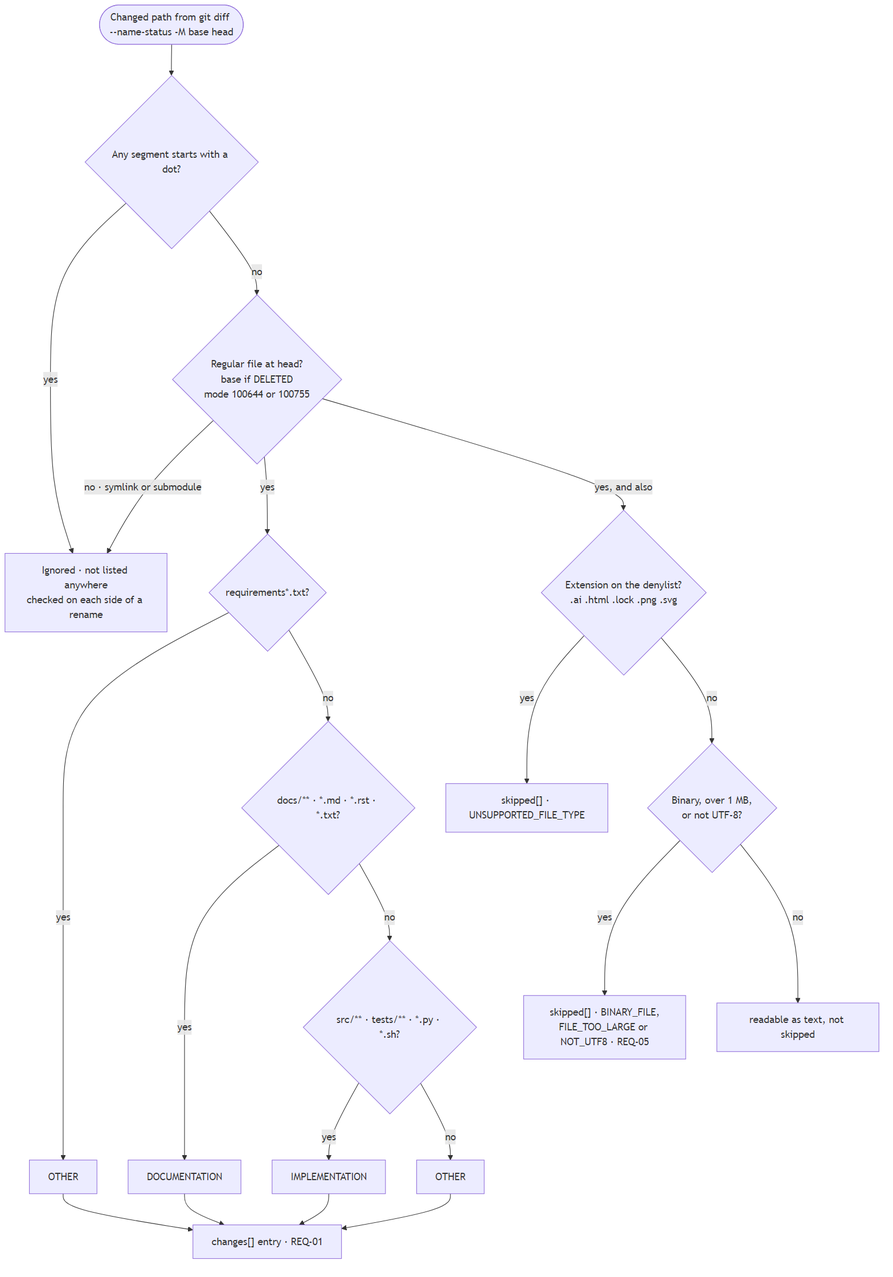
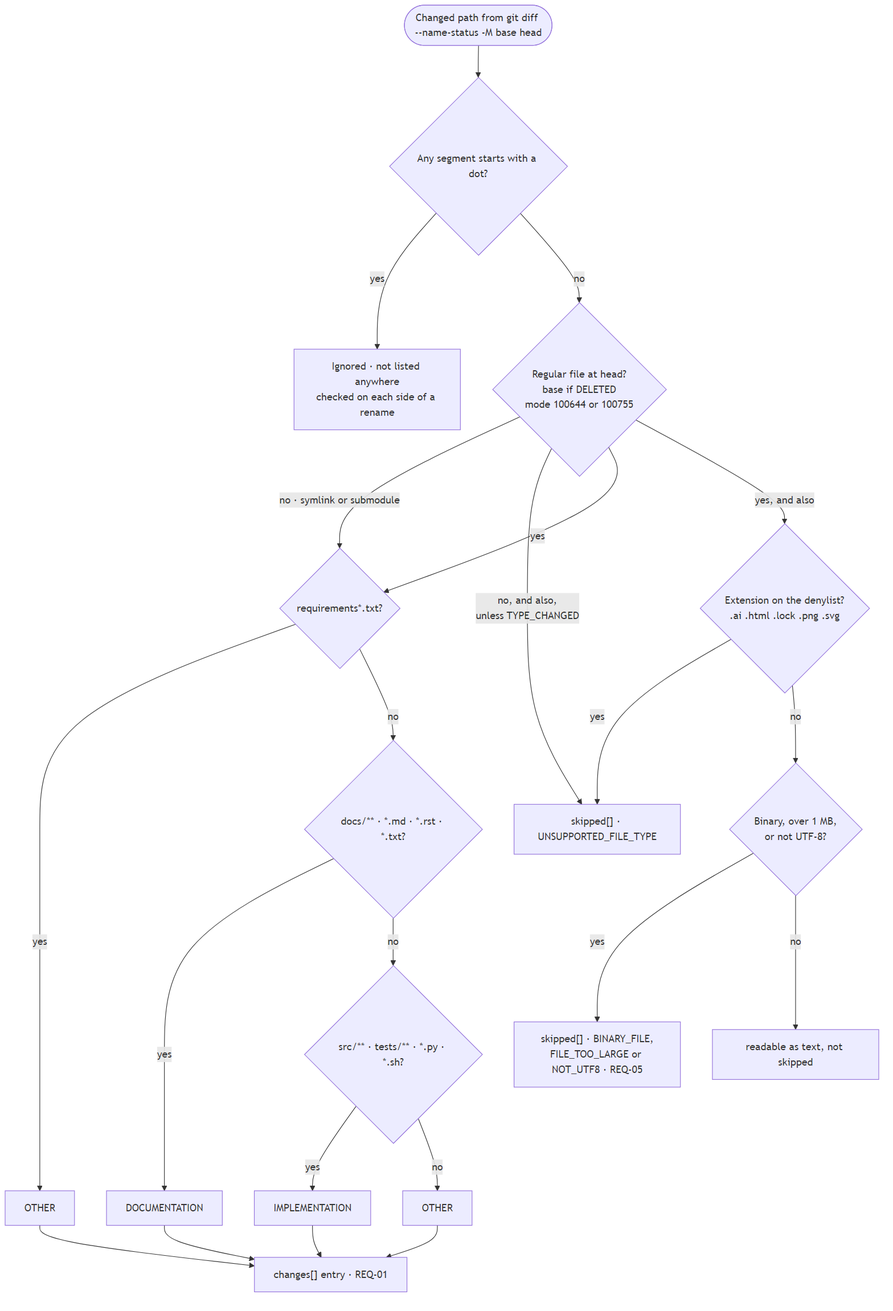
List symlinks and submodules in changes[] and skip them (ticket 17)
Match the reference service: a symlink or submodule outside hidden
paths is listed with its path-rule category and skipped as
UNSUPPORTED_FILE_TYPE, judged by git's mode. A switch to or from a
regular file is one TYPE_CHANGED change and isn't skipped. tree()
still lists regular files only. Drop LINK_PATHS from the conformance
comparison and update the test repo's expected answers, M3, the
roadmap and spec story 25.

diff --git a/Source/GitHub_Connector/fetch.py b/Source/GitHub_Connector/fetch.py
@@ -27,8 +27,11 @@ _STATUS = {
     "T": ChangeType.TYPE_CHANGED,
 }
 
-# keeps plain and executable files, drops symlinks (120000) and submodules (160000)
+# keeps plain and executable files, the only ones read as text
 REGULAR = {"100644", "100755"}
+
+# lists symlinks and submodules in changes[] and skips them unread, as the reference does (decision T12-Q10)
+LINKS = {"120000", "160000"}
 
 # names each skip reason as a code, in the reference service's style (decision T12-Q2)
 SKIP_UNSUPPORTED = "UNSUPPORTED_FILE_TYPE"
@@ -44,6 +47,7 @@ class FileChange:
     change_type: ChangeType
     old_path: str | None = None
     blob: str = ""  # holds the blob checked, base side for a deletion
+    link: bool = False  # marks a symlink or submodule on the side checked, never read
 
 
 @dataclass(frozen=True)
@@ -265,7 +269,17 @@ def _first_parent(git: _Git, head: str) -> str | None:
 
 def kept(path: str, mode: str) -> bool:
     # admits a regular file with no hidden segment, everything else is an ignored path
-    return mode in REGULAR and not any(part.startswith(".") for part in path.split("/"))
+    return mode in REGULAR and not _hidden(path)
+
+
+def listed(path: str, mode: str) -> bool:
+    # admits a changed path for changes[], a kept file or a symlink or submodule with no hidden segment
+    return (mode in REGULAR or mode in LINKS) and not _hidden(path)
+
+
+def _hidden(path: str) -> bool:
+    # tells a hidden path, any segment starting with a dot
+    return any(part.startswith(".") for part in path.split("/"))
 
 
 def _diff(git: _Git, old: str, head: str) -> list[FileChange]:
@@ -282,29 +296,38 @@ def _diff(git: _Git, old: str, head: str) -> list[FileChange]:
             old_path, new_path = fields[i + 1], fields[i + 2]
             i += 3
             # checks each side on its own, so an ignored path never shows, not even as old_path
-            old_ok, new_ok = kept(old_path, old_mode), kept(new_path, new_mode)
+            old_ok, new_ok = listed(old_path, old_mode), listed(new_path, new_mode)
             if old_ok and new_ok:
-                changes.append(FileChange(new_path, ChangeType.RENAMED, old_path, new_blob))
+                changes.append(FileChange(new_path, ChangeType.RENAMED, old_path, new_blob, new_mode in LINKS))
             elif new_ok:
-                changes.append(FileChange(new_path, ChangeType.ADDED, blob=new_blob))
+                changes.append(FileChange(new_path, ChangeType.ADDED, blob=new_blob, link=new_mode in LINKS))
             elif old_ok:
-                changes.append(FileChange(old_path, ChangeType.DELETED, blob=old_blob))
+                changes.append(FileChange(old_path, ChangeType.DELETED, blob=old_blob, link=old_mode in LINKS))
             continue
         path = fields[i + 1]
         i += 2
         # judges the head side, or the base side for a deletion
         if letter == "D":
-            if kept(path, old_mode):
-                changes.append(FileChange(path, ChangeType.DELETED, blob=old_blob))
-        elif kept(path, new_mode):
-            changes.append(FileChange(path, _STATUS[letter], blob=new_blob))
+            if listed(path, old_mode):
+                changes.append(FileChange(path, ChangeType.DELETED, blob=old_blob, link=old_mode in LINKS))
+        elif listed(path, new_mode):
+            changes.append(FileChange(path, _STATUS[letter], blob=new_blob, link=new_mode in LINKS))
     return changes
 
 
 def _skipped(git: _Git, old: str, head: str, changes: list[FileChange]) -> list[SkippedFile]:
     # lists the changes that can't be read as text, file type first, then binary, size and UTF-8
-    skipped = [SkippedFile(c.path, SKIP_UNSUPPORTED) for c in changes if rules.is_unsupported(c.path)]
-    rest = [c for c in changes if not rules.is_unsupported(c.path)]
+    skipped: list[SkippedFile] = []
+    rest: list[FileChange] = []
+    for c in changes:
+        if c.link:
+            # skips a symlink or submodule unread, but a switch to or from one isn't skipped
+            if c.change_type != ChangeType.TYPE_CHANGED:
+                skipped.append(SkippedFile(c.path, SKIP_UNSUPPORTED))
+        elif rules.is_unsupported(c.path):
+            skipped.append(SkippedFile(c.path, SKIP_UNSUPPORTED))
+        else:
+            rest.append(c)
     if not rest:
         return skipped
     binary = _numstat_binaries(git, old, head)

diff --git a/tests/test_v1_changes.py b/tests/test_v1_changes.py
@@ -33,6 +33,11 @@ def listing(body):
     return [(c["path"], c["change_type"], c["old_path"]) for c in body["changes"]]
 
 
+def skipped(body):
+    # reduces skipped[] to (path, reason) pairs
+    return [(s["path"], s["reason"]) for s in body["skipped"]]
+
+
 TEXT = "".join(f"line {i}: the quick brown fox jumps over the lazy dog\n" for i in range(40))
 
 
@@ -102,18 +107,40 @@ def test_hidden_paths_are_ignored(api, make_repo):
 
 
 @pytest.mark.skipif(not SYMLINKS, reason="needs symlink support")
-def test_symlink_is_not_listed(api, make_repo):
+def test_symlink_is_listed_and_skipped(api, make_repo):
     repo = make_repo()
     repo.commit({"target.txt": "t\n"})
     head = repo.commit({"real.txt": "r\n"}, symlinks={"link.txt": "target.txt"})
-    assert listing(analyse(api, head)) == [("real.txt", "ADDED", None)]
+    body = analyse(api, head)
+    assert listing(body) == [("link.txt", "ADDED", None), ("real.txt", "ADDED", None)]
+    assert skipped(body) == [("link.txt", "UNSUPPORTED_FILE_TYPE")]
 
 
-def test_submodule_is_not_listed(api, make_repo):
+def test_submodule_is_listed_and_skipped(api, make_repo):
     repo = make_repo()
     repo.commit({"seed": "0\n"})
     head = repo.commit({"real.txt": "r\n"}, gitlinks={"vendor/lib": "1" * 40})
-    assert listing(analyse(api, head)) == [("real.txt", "ADDED", None)]
+    body = analyse(api, head)
+    assert listing(body) == [("real.txt", "ADDED", None), ("vendor/lib", "ADDED", None)]
+    assert skipped(body) == [("vendor/lib", "UNSUPPORTED_FILE_TYPE")]
+
+
+def test_submodule_bump_is_modified_and_skipped(api, make_repo):
+    repo = make_repo()
+    repo.commit({"seed": "0\n"}, gitlinks={"vendor/lib": "1" * 40})
+    head = repo.commit({}, gitlinks={"vendor/lib": "2" * 40})
+    body = analyse(api, head)
+    assert listing(body) == [("vendor/lib", "MODIFIED", None)]
+    assert skipped(body) == [("vendor/lib", "UNSUPPORTED_FILE_TYPE")]
+
+
+def test_hidden_submodule_stays_ignored(api, make_repo):
+    repo = make_repo()
+    repo.commit({"seed": "0\n"})
+    head = repo.commit({"real.txt": "r\n"}, gitlinks={".vendor/lib": "1" * 40})
+    body = analyse(api, head)
+    assert listing(body) == [("real.txt", "ADDED", None)]
+    assert skipped(body) == []
 
 
 def test_executable_file_is_kept(api, make_repo):
@@ -138,11 +165,28 @@ def test_rename_into_a_hidden_folder_is_deleted(api, make_repo):
 
 
 @pytest.mark.skipif(not SYMLINKS, reason="needs symlink support")
-def test_switch_between_file_and_symlink_never_lists_the_link_side(api, make_repo):
+def test_switch_between_file_and_symlink_is_type_changed_both_ways(api, make_repo):
     repo = make_repo()
     repo.commit({"target.txt": "t\n", "flip.txt": "regular\n"})
     to_link = repo.commit({}, symlinks={"flip.txt": "target.txt"})
     back = repo.commit({"flip.txt": "regular again\n"})
-    # lists nothing for file-to-link, only the regular file for link-to-file
-    assert listing(analyse(api, to_link)) == []
-    assert [c["path"] for c in analyse(api, back)["changes"]] == ["flip.txt"]
+    # lists one TYPE_CHANGED change either way, and skips neither
+    for head in (to_link, back):
+        body = analyse(api, head)
+        assert listing(body) == [("flip.txt", "TYPE_CHANGED", None)]
+        assert skipped(body) == []
+
+
+def test_switch_between_file_and_submodule_is_type_changed_both_ways(api, make_repo):
+    repo = make_repo()
+    repo.commit({"vendor/lib": "regular\n"})
+    repo.run("rm", "--quiet", "--cached", "vendor/lib")
+    (repo.work / "vendor/lib").unlink()
+    to_module = repo.commit({}, gitlinks={"vendor/lib": "1" * 40})
+    repo.run("rm", "--quiet", "--cached", "vendor/lib")
+    back = repo.commit({"vendor/lib": "regular again\n"})
+    # lists one TYPE_CHANGED change either way, and skips neither
+    for head in (to_module, back):
+        body = analyse(api, head)
+        assert listing(body) == [("vendor/lib", "TYPE_CHANGED", None)]
+        assert skipped(body) == []

diff --git a/tools/testrepo.py b/tools/testrepo.py
@@ -109,13 +109,16 @@ EXPECTED = {
         change("docs/old.md", "DELETED", "DOCUMENTATION"),
     ], []),
     "symlink": ("symlink", None, [
+        change("link-to-readme", "ADDED", "OTHER"),
         change("notes.txt", "ADDED", "DOCUMENTATION"),
         change("switchy.txt", "ADDED", "DOCUMENTATION"),
-    ], []),
-    "file-to-symlink": ("file-to-symlink", None, [], []),
-    # follows M3 until ticket 12 probes the reference service
+    ], [skip("link-to-readme", UNSUPPORTED)]),
+    "file-to-symlink": ("file-to-symlink", None, [change("switchy.txt", "TYPE_CHANGED", "DOCUMENTATION")], []),
     "symlink-to-file": ("symlink-to-file", None, [change("switchy.txt", "TYPE_CHANGED", "DOCUMENTATION")], []),
-    "submodule": ("submodule", None, [change("vendor/README.md", "ADDED", "DOCUMENTATION")], []),
+    "submodule": ("submodule", None, [
+        change("vendor/README.md", "ADDED", "DOCUMENTATION"),
+        change("vendor/lib", "ADDED", "OTHER"),
+    ], [skip("vendor/lib", UNSUPPORTED)]),
     "binary": ("binary", None, [change("assets/logo.png", "ADDED", "OTHER")], [skip("assets/logo.png", UNSUPPORTED)]),
     "oversize": ("oversize", None, [change("data/big.csv", "ADDED", "OTHER")], [skip("data/big.csv", TOO_LARGE)]),
     "non-utf8": ("non-utf8", None, [change("docs/latin1.txt", "ADDED", "DOCUMENTATION")], [skip("docs/latin1.txt", NOT_UTF8)]),
@@ -134,13 +137,17 @@ EXPECTED = {
         change("docs/guide.md", "ADDED", "DOCUMENTATION"),
         change("lib/shown.py", "RENAMED", "IMPLEMENTATION", "lib/visible.py"),
         change("misc/latin.txt", "ADDED", "DOCUMENTATION"),
+        change("mixlink", "ADDED", "OTHER"),
         change("requirements-dev.txt", "DELETED", "OTHER"),
         change("run.sh", "ADDED", "IMPLEMENTATION"),
         change("src/app.py", "MODIFIED", "IMPLEMENTATION"),
+        change("vendor/other", "ADDED", "OTHER"),
     ], [
         skip("assets/icon.png", UNSUPPORTED),
         skip("data/huge.txt", TOO_LARGE),
         skip("misc/latin.txt", NOT_UTF8),
+        skip("mixlink", UNSUPPORTED),
+        skip("vendor/other", UNSUPPORTED),
     ]),
     "deleted": ("deleted", None, [change("docs/guide.md", "DELETED", "DOCUMENTATION")], []),
     "base-equals-head": ("docs-category", "docs-category", [], []),

diff --git a/tests/reference.py b/tests/reference.py
@@ -6,7 +6,6 @@ import json
 import os
 import sys
 import time
-from collections.abc import Container
 from pathlib import Path
 from typing import Any
 
@@ -65,14 +64,6 @@ def normalise(body: Any) -> Any:
     return body
 
 
-# names the symlinks and submodules we still ignore, which theirs lists, per label until ticket 17 (decision T12-Q10)
-LINK_PATHS = {
-    "label-symlink": {"link-to-readme"},
-    "label-file-to-symlink": {"switchy.txt"},
-    "label-submodule": {"vendor/lib"},
-    "label-mixed": {"mixlink", "vendor/other"},
-}
-
 # names the skip reasons only our safety net gives, theirs skips by file type alone (decision T12-Q2)
 OUR_EXTRA_SKIP_REASONS = {"BINARY_FILE", "FILE_TOO_LARGE", "NOT_UTF8"}
 
@@ -96,13 +87,13 @@ def _without_hidden(change: dict) -> dict | None:
     return change
 
 
-def comparable(ours: Any, theirs: Any, ignored_paths: Container[str] = ()) -> tuple[Any, Any]:
-    # removes the known differences by choice: our extra skip reasons, their hidden paths and their ignored_paths
+def comparable(ours: Any, theirs: Any) -> tuple[Any, Any]:
+    # removes the known differences by choice: our extra skip reasons and their hidden paths
     if not (isinstance(ours, dict) and isinstance(theirs, dict) and "changes" in theirs):
         return ours, theirs
     ours = {**ours, "skipped": [s for s in ours.get("skipped", []) if s["reason"] not in OUR_EXTRA_SKIP_REASONS]}
-    changes = [c for c in map(_without_hidden, theirs["changes"]) if c is not None and c["path"] not in ignored_paths]
-    skipped = [s for s in theirs.get("skipped", []) if not _hidden(s["path"]) and s["path"] not in ignored_paths]
+    changes = [c for c in map(_without_hidden, theirs["changes"]) if c is not None]
+    skipped = [s for s in theirs.get("skipped", []) if not _hidden(s["path"])]
     return ours, {**theirs, "changes": sorted(changes, key=lambda c: c["path"]), "skipped": skipped}
 
 

diff --git a/tests/test_v1_network.py b/tests/test_v1_network.py
@@ -156,8 +156,7 @@ def test_conformance(case, target, github_env, live_reference, request):
     ours = target.request(method, "/system" + path, json=body)
     their = theirs(method, path, body)
     assert ours.status_code == their.status_code, f"{case}: status ours {ours.status_code}, theirs {their.status_code}"
-    ignored = reference.LINK_PATHS.get(case, ())
-    found = reference.differences(*reference.comparable(reference.normalise(ours.json()), reference.normalise(their.json()), ignored))
+    found = reference.differences(*reference.comparable(reference.normalise(ours.json()), reference.normalise(their.json())))
     allowed = reference.KNOWN_CASE_DIFFERENCES.get(case, ("",))[0]
     found = [f for f in found if not (allowed and f.startswith(allowed + ":"))]
     assert found == [], f"{case}: " + " | ".join(found)
@@ -217,16 +216,3 @@ def test_known_differences_by_choice_are_removed_before_comparing():
     assert reference.differences(*reference.comparable(ours, wrong)) == [
         "body.changes[3].change_type: ours 'ADDED', theirs 'MODIFIED'"
     ]
-
-
-def test_link_paths_waiting_for_ticket_17_are_removed_from_theirs_only():
-    ours = {"changes": [{"path": "notes.txt", "old_path": None, "change_type": "ADDED", "category": "DOCUMENTATION"}], "skipped": []}
-    theirs = {
-        "changes": [
-            {"path": "link-to-readme", "old_path": None, "change_type": "ADDED", "category": "OTHER"},
-            {"path": "notes.txt", "old_path": None, "change_type": "ADDED", "category": "OTHER"},
-        ],
-        "skipped": [{"path": "link-to-readme", "reason": "UNSUPPORTED_FILE_TYPE"}],
-    }
-    assert reference.differences(*reference.comparable(ours, theirs)) != []
-    assert reference.differences(*reference.comparable(ours, theirs, ignored_paths={"link-to-readme"})) == []

diff --git a/tests/test_v1_testrepo.py b/tests/test_v1_testrepo.py
@@ -75,10 +75,10 @@ def test_mixed_commit_reports_every_path_not_ignored(local_api, built):
     reported = {c["path"] for c in body["changes"]} | {c["old_path"] for c in body["changes"] if c["old_path"]}
     skipped = {s["path"] for s in body["skipped"]}
     assert skipped <= reported, "every skipped file is also a change"
-    for path, meta in touched.items():
-        old_mode, new_mode = meta[1:].split(" ")[:2]
-        ignored = any(p.startswith(".") for p in path.split("/")) or {old_mode, new_mode} & {"120000", "160000"}
-        assert bool(ignored) != (path in reported), f"{path}: ignored={bool(ignored)}, reported={path in reported}"
+    for path in touched:
+        # ignores hidden paths only, symlinks and submodules are reported too (ticket 17)
+        ignored = any(p.startswith(".") for p in path.split("/"))
+        assert ignored != (path in reported), f"{path}: ignored={ignored}, reported={path in reported}"
     assert ".assets/secret.png" in touched and ".assets/secret.png" not in reported | skipped
 
 

diff --git a/docs/plan/roadmap.md b/docs/plan/roadmap.md
@@ -103,7 +103,7 @@ The LLM gets every DOCUMENTATION file at head, up to a 200 KB total (a config va
 | 2 | Validate the request before touching the network: `repository` matches `^[A-Za-z0-9-]+/[A-Za-z0-9._-]+$`, `commit_id` is required and 7–40 hex, and `base_commit` follows the same rule when given. | 1 | Missing `commit_id` → 400 `INVALID_REQUEST` with "commit_id is required" (AC-07). `not-a-repo` → 400 `INVALID_REQUEST`, and no run is saved. |
 | 3 | Connect anonymously: `GIT_TERMINAL_PROMPT=0` and `git -c credential.helper= clone --filter=blob:none --no-checkout --quiet` into a fresh temporary directory. Every git call has a 60 s timeout, and the whole analysis has a 120 s deadline; both map to `TIMEOUT`. At most K = 2 analyses run at once (a semaphore around `analyze()`), and extra requests wait. All three values live in config. The connector is used as `with fetch(repo, head, base) as cmp:`, and the clone is deleted when the block exits, so the v1.2 LLM step can read files inside the same scope. | 2 | A public repo clones. A missing or private repo fails at once → 404 `REPOSITORY_NOT_FOUND`, even in an environment that injects GitHub credentials. |
 | 4 | Resolve the commits: `git fetch origin {sha}` when the head isn't in the clone, then `git rev-parse --verify {sha}^{commit}` for the full 40-hex id. The base is `base_commit` (resolved the same way) or `{head}^`. A root commit has base `null`, which is a first audit. Any `base_commit` is accepted and diffed exactly as given, even one equal to, after or unrelated to the head (decision 20). A short SHA that can't be fetched or is ambiguous gives 404 `COMMIT_NOT_FOUND` with a message asking for the full 40-character SHA (decision 21). | 3 | `octocat/Hello-World` at `7fd1a60` returns head `7fd1a60b…` and base `553c2077…`. An unknown SHA → 404 `COMMIT_NOT_FOUND` (AC-08). A root commit gives base `null`. |
-| 5 | List the files at each commit with `git ls-tree -r {sha}` and keep only regular files (`100644`/`100755`) with no path segment starting with `.`. Symlinks, submodules, `.gitignore`, `.github/` and `.vscode/` drop out silently. No `-l`: in a blobless clone it reads every blob's size and fetches missing blobs one at a time. Binary files (a NUL byte in the first 8 KB) and files over 1 MB go to `skipped[]` with a reason; these checks run only on changed paths, after `git diff --numstat` has fetched their blobs in one batch (it also marks binaries with `-`). This builds `tree(side)`. | 4 | A commit that adds `.gitignore`, `.github/x.md` and `src/a.py` lists only `src/a.py`. A symlink is not read, and a PNG lands in `skipped[]`. |
+| 5 | List the files at each commit with `git ls-tree -r {sha}` and keep only regular files (`100644`/`100755`) with no path segment starting with `.`. `.gitignore`, `.github/` and `.vscode/` drop out silently. Symlinks and submodules are left out of `tree(side)` but, outside hidden paths, a changed one is listed in `changes[]` and skipped as `UNSUPPORTED_FILE_TYPE` unread, except a switch to or from a regular file, which is one TYPE_CHANGED change that isn't skipped (T12-Q10, ticket 17). No `-l`: in a blobless clone it reads every blob's size and fetches missing blobs one at a time. Binary files (a NUL byte in the first 8 KB) and files over 1 MB go to `skipped[]` with a reason; these checks run only on changed paths, after `git diff --numstat` has fetched their blobs in one batch (it also marks binaries with `-`). This builds `tree(side)`. | 4 | A commit that adds `.gitignore`, `.github/x.md` and `src/a.py` lists only `src/a.py`. A symlink is not read, and a PNG lands in `skipped[]`. |
 | 6 | Read file contents with `git show {sha}:{path}`, decoded as UTF-8. No cache in v1.1, since each changed file is read once; v1.2 adds one if the LLM step needs it. A path missing on one side returns `None`, and an undecodable file goes to `skipped[]`. This is `read(path, side)`. v1.1 uses it for the UTF-8 check, v1.2 uses it to read the docs and changed code it sends to the LLM, and v1.3 or v2 reads the mapping file with it. | 6 | `read(path, "base")` and `read(path, "head")` return the right bytes, and a missing side returns `None`. |
 | 7 | Get the changes with `git diff --name-status -M {base} {head}`: renames only, at git's default 50% similarity, so COPIED never appears (decision 18). The step 5 filter applies, so `.gitignore` never appears in `changes[]`. A rename is **one** `RENAMED` change with `old_path` set (see below). The filter checks each side of a rename: a rename out of a hidden path is ADDED, a rename into one is DELETED, and a hidden path never appears as `old_path` (decision 19). A first audit diffs against the empty tree, so every file is `ADDED`. | 7 | T-01, T-02, T-03, T-06 and T-07 pass. More than 300 changed files all come back. |
 | 8 | Classify each file, first matching rule wins: `requirements*.txt` → OTHER; `docs/**`, `*.md`, `*.rst`, `*.txt` → DOCUMENTATION; `src/**`, `tests/**`, `*.py`, `*.sh` → IMPLEMENTATION (`*.sh` from T12-Q11); everything else → OTHER. The rules live in one config file in our repo, and `config_version` is a short hash of that file, so it's always a string. | 5 | `docs/installation.rst` → DOCUMENTATION (T-04 passes). `psf/requests` at `d568f47` matches the pod's `changes[]` except that doc files are DOCUMENTATION here and `OTHER` there. |

diff --git a/docs/Models/v1/M3-file-rules.md b/docs/Models/v1/M3-file-rules.md
@@ -2,18 +2,19 @@
 
 **Question:** For each changed path, is it reported, skipped or ignored, and which category does it get?
 
-Hidden paths, symlinks and submodules are ignored. Every other changed path is reported in `changes[]`, and a path that can't be read as text is also listed in `skipped[]` with a reason code (decision log, T12-Q1, T12-Q2 and T12-Q9).
+Hidden paths are ignored. Every other changed path is reported in `changes[]`, and a path that can't be read as text is also listed in `skipped[]` with a reason code (decision log, T12-Q1, T12-Q2 and T12-Q9). A symlink or submodule is never read, so it is skipped as `UNSUPPORTED_FILE_TYPE`, except a switch to or from a regular file, which is one TYPE_CHANGED change and isn't skipped (T12-Q10, ticket 17).
 
 ```mermaid
 flowchart TD
   accTitle: M3 file rules
-  accDescr: Each changed path is ignored if it is hidden or not a regular file. Otherwise it is reported in changes with a category from the first matching rule, and it is also listed in skipped with a reason code if its extension is on the denylist, or if it is binary, over 1 MB or not UTF-8. Each side of a rename is checked for hidden paths separately.
+  accDescr: Each changed path is ignored if it is hidden. Otherwise it is reported in changes with a category from the first matching rule. A symlink or submodule is also listed in skipped as UNSUPPORTED_FILE_TYPE unless it is a TYPE_CHANGED switch. A regular file is also listed in skipped with a reason code if its extension is on the denylist, or if it is binary, over 1 MB or not UTF-8. Each side of a rename is checked for hidden paths separately.
 
   P(["Changed path from git diff --name-status -M base head"])
   P --> H{"Any segment starts with a dot?"}
   H -->|"yes"| IGN["Ignored · not listed anywhere<br/>checked on each side of a rename"]
   H -->|"no"| M{"Regular file at head?<br/>base if DELETED<br/>mode 100644 or 100755"}
-  M -->|"no · symlink or submodule"| IGN
+  M -->|"no · symlink or submodule"| R1
+  M -->|"no, and also,<br/>unless TYPE_CHANGED"| SKU
   M -->|"yes"| R1{"requirements*.txt?"}
   M -->|"yes, and also"| U{"Extension on the denylist?<br/>.ai .html .lock .png .svg"}
   R1 -->|"yes"| OTH["OTHER"]
@@ -49,8 +50,8 @@ A first audit (a root commit, so no base) diffs against the empty tree, so every
 
 **Doc budget (v1.2).** The LLM is sent every DOCUMENTATION file at head, up to 200 KB in total (a config value). Docs past the budget go to `skipped[]` with the reason "over doc budget", so they are never reported as checked.
 
-**Side.** The mode, size, binary and UTF-8 checks read the head side of each path, or the base side for DELETED. So a symlink that becomes a regular file is reported as TYPE_CHANGED, and a regular file that becomes a symlink is ignored; the conformance test checks this against the pod. The size and binary checks run only on changed paths, after `git diff --numstat` has fetched their blobs in one batch.
+**Side.** The mode, size, binary and UTF-8 checks read the head side of each path, or the base side for DELETED. A switch between a regular file and a symlink or submodule is one TYPE_CHANGED change in either direction, and is not skipped; the conformance test checks this against the pod. Its content checks run only when the side checked is a regular file. The size and binary checks run only on changed paths, after `git diff --numstat` has fetched their blobs in one batch.
 
 - **Representation.** Two admission checks, one ordered list of category rules where the first match wins, and a skip check: the extension denylist, then the binary, size and UTF-8 checks. The rules and the denylist live in one config file. `config_version` is a short hash of every config input that affects the output: the rules file in v1.1, plus the LLM provider, model and doc budget from v1.2, plus the mapping file at head once it lands in v1.3 or v2.
 - **Property.** Every changed path is either ignored or in `changes[]`, and a path in `skipped[]` is always in `changes[]` too. Nothing that wasn't checked is reported as checked (REQ-05). The denylist and the content checks are the reference service's file-type rule plus our safety net; a file of a type the reference accepts that fails a content check is a known difference (T12-Q2). DESIGN, ARCHITECTURE, SPECIFICATION and REQUIREMENT have no rules in v1, so those files fall to DOCUMENTATION under `docs/` or when named `*.md`, `*.rst` or `*.txt`, and to OTHER otherwise.
-- **Checked by.** T-04 (`docs/installation.rst` → DOCUMENTATION), connector tests 2, 3, 10 and 11 (added and deleted files, rename, hidden files, symlink and binary), and `tests/test_v1_skipped.py` (ticket 16), and T-03 (a rename is one change).
+- **Checked by.** T-04 (`docs/installation.rst` → DOCUMENTATION), connector tests 2, 3, 10 and 11 (added and deleted files, rename, hidden files, symlink and binary), the symlink and submodule tests in `tests/test_v1_changes.py` (ticket 17), and `tests/test_v1_skipped.py` (ticket 16), and T-03 (a rename is one change).

diff --git a/.scratch/v1-1-change-detection/issues/17-match-reference-on-symlinks-and-submodules.md b/.scratch/v1-1-change-detection/issues/17-match-reference-on-symlinks-and-submodules.md
@@ -4,15 +4,15 @@
 
 **Blocked by:** None (can start immediately)
 
-**Status:** ready-for-agent · decided on 2026-10-17 (decision log, T12-Q10)
+**Status:** done except the republish (2026-10-17). Symlinks and submodules outside hidden paths are listed in `changes[]` with a category from the path rules and skipped as `UNSUPPORTED_FILE_TYPE`, judged by git's mode in `fetch.py`; a modified symlink or a submodule bump follows the same rule (MODIFIED and skipped), and a switch between a regular file and a symlink or submodule is one TYPE_CHANGED change that isn't skipped. `tree(side)` still lists regular files only. With DRIFTER_LABEL_CONFORMANCE=1 all 23 labels matched the reference live from Kaan's machine, and the whole suite passed online (239 passed; the two symlink tests that need filesystem symlinks skip on this Windows machine, the labels cover them through fast-import). The modified-symlink, submodule-bump and file-to-submodule cases were never probed on the reference. Left: Kaan republishes the test repo for the new expected answers.
 
 **Spec:** docs/plan/spec-v1.1.md, user stories 25, 32, 33 (as amended by T12-Q10)
 
-- [ ] The test repo's `symlink` label lists `link-to-readme` in `changes[]` (ADDED, OTHER) and in `skipped[]` as `UNSUPPORTED_FILE_TYPE`, as the reference does.
-- [ ] The `submodule` label lists `vendor/lib` the same way, and `mixed` does so for `mixlink` and `vendor/other`.
-- [ ] The `file-to-symlink` label gives one TYPE_CHANGED change for `switchy.txt`, which isn't skipped, and `symlink-to-file` still does.
-- [ ] Hidden paths stay ignored even when they are symlinks or submodules (T12-Q9).
-- [ ] The rule lives in the connector, not in the rules file: these are skipped by what git says they are (mode `120000` or `160000`), whatever their extension.
-- [ ] `LINK_PATHS` in `tests/reference.py` is removed, and with DRIFTER_LABEL_CONFORMANCE=1 every label matches the reference apart from the recorded known differences.
-- [ ] M3's diagram and its PNG, roadmap decision 5's wording and spec story 25 match the new rule, and the test repo's expected answers are updated in `tools/testrepo.py`, ready for Kaan to republish.
-- [ ] The whole suite is green offline and online.
+- [x] The test repo's `symlink` label lists `link-to-readme` in `changes[]` (ADDED, OTHER) and in `skipped[]` as `UNSUPPORTED_FILE_TYPE`, as the reference does.
+- [x] The `submodule` label lists `vendor/lib` the same way, and `mixed` does so for `mixlink` and `vendor/other`.
+- [x] The `file-to-symlink` label gives one TYPE_CHANGED change for `switchy.txt`, which isn't skipped, and `symlink-to-file` still does.
+- [x] Hidden paths stay ignored even when they are symlinks or submodules (T12-Q9).
+- [x] The rule lives in the connector, not in the rules file: these are skipped by what git says they are (mode `120000` or `160000`), whatever their extension.
+- [x] `LINK_PATHS` in `tests/reference.py` is removed, and with DRIFTER_LABEL_CONFORMANCE=1 every label matches the reference apart from the recorded known differences.
+- [x] M3's diagram and its PNG, roadmap decision 5's wording and spec story 25 match the new rule, and the test repo's expected answers are updated in `tools/testrepo.py`, ready for Kaan to republish.
+- [x] The whole suite is green offline and online.

diff --git a/docs/plan/spec-v1.1.md b/docs/plan/spec-v1.1.md
@@ -38,7 +38,7 @@ A small FastAPI service under `/system` that matches the reference service's con
 22. As the course tester, I want each changed file listed once with ADDED, MODIFIED, DELETED or RENAMED, so that T-01, T-02, T-06 and T-07 pass.
 23. As the course tester, I want a rename reported as one RENAMED change with `old_path` set, not as a delete plus an add, so that T-03 passes.
 24. As a maintainer, I want renames detected at git's default 50% similarity and copies never reported, so that our output agrees with the reference service.
-25. As a caller, I want hidden paths (any segment starting with `.`), symlinks and submodules left out of `changes[]` entirely, so that tooling files like `.gitignore` and `.github/` never show up. (Symlinks and submodules change with ticket 17: listed in `changes[]` and skipped, as the reference does, T12-Q10.)
+25. As a caller, I want hidden paths (any segment starting with `.`) left out of `changes[]` entirely, so that tooling files like `.gitignore` and `.github/` never show up, and symlinks and submodules listed in `changes[]` and skipped as `UNSUPPORTED_FILE_TYPE`, since they are never read, as the reference does (T12-Q10, ticket 17). A switch between a regular file and a symlink or submodule is one TYPE_CHANGED change and isn't skipped.
 26. As a caller, I want a rename out of a hidden path reported as ADDED, and a rename into one as DELETED, so that a hidden path never appears, not even as `old_path`.
 27. As a caller, I want every change to have a category from the path rules, so that I can tell code changes from doc changes.
 28. As the course tester, I want `docs/**`, `*.md`, `*.rst` and `*.txt` classified as DOCUMENTATION, so that T-04 passes.
@@ -109,7 +109,7 @@ A small FastAPI service under `/system` that matches the reference service's con
   8. A binary, an oversize file and a non-UTF-8 file land in `skipped[]`.
   9. The fixture repo is byte-identical before and after a run.
   10. `.gitignore`, `.github/x.md` and `src/a.py` give only `src/a.py`.
-  11. A symlink is not listed.
+  11. A symlink is listed and skipped as `UNSUPPORTED_FILE_TYPE`, and a file-to-symlink switch is one TYPE_CHANGED change.
   12. A repo that doesn't exist gives REPOSITORY_NOT_FOUND.
 - **More cases:**
   - Renames across hidden paths.
